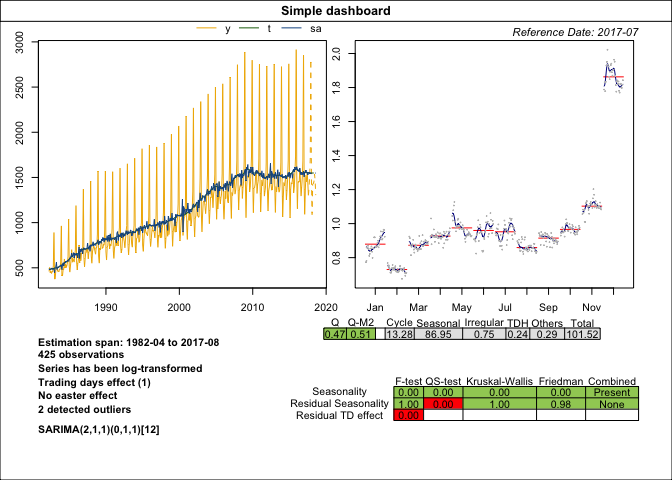
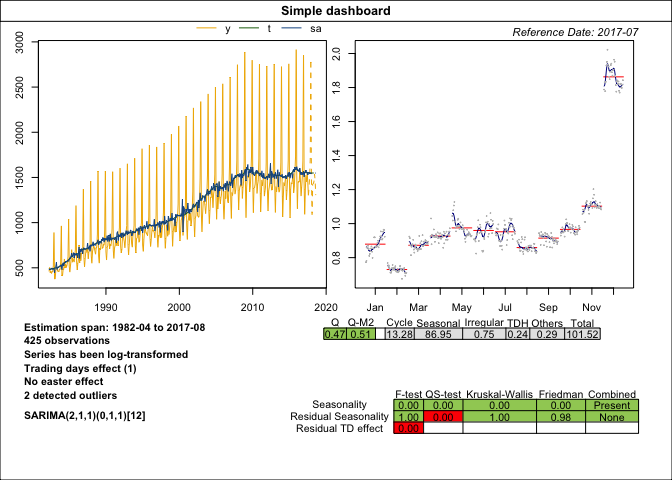
simple_dashboard2

Changed region(s): [[0.4375, 0.7812, 0.9688, 0.9062], [0.0312, 0.6562, 0.3438, 0.9062]]

diff --git a/README.md b/README.md
@@ -58,3 +58,10 @@ plot(dashboard_data, main = "Simple dashboard")
 ```
 
 <img src="man/figures/README-simple_dash-1.png" style="display: block; margin: auto;" />
+
+``` r
+dashboard_data2 <- simple_dashboard2(sa_mod)
+plot(dashboard_data2, main = "Simple dashboard with outlier")
+```
+
+<img src="man/figures/README-simple_dash-2.png" style="display: block; margin: auto;" />
